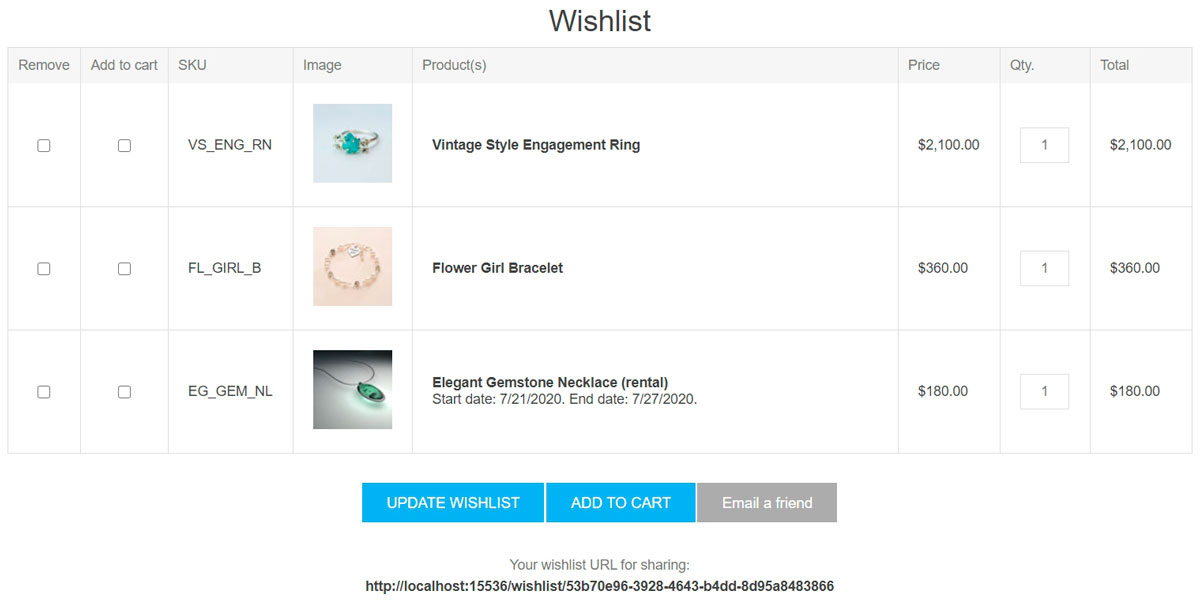
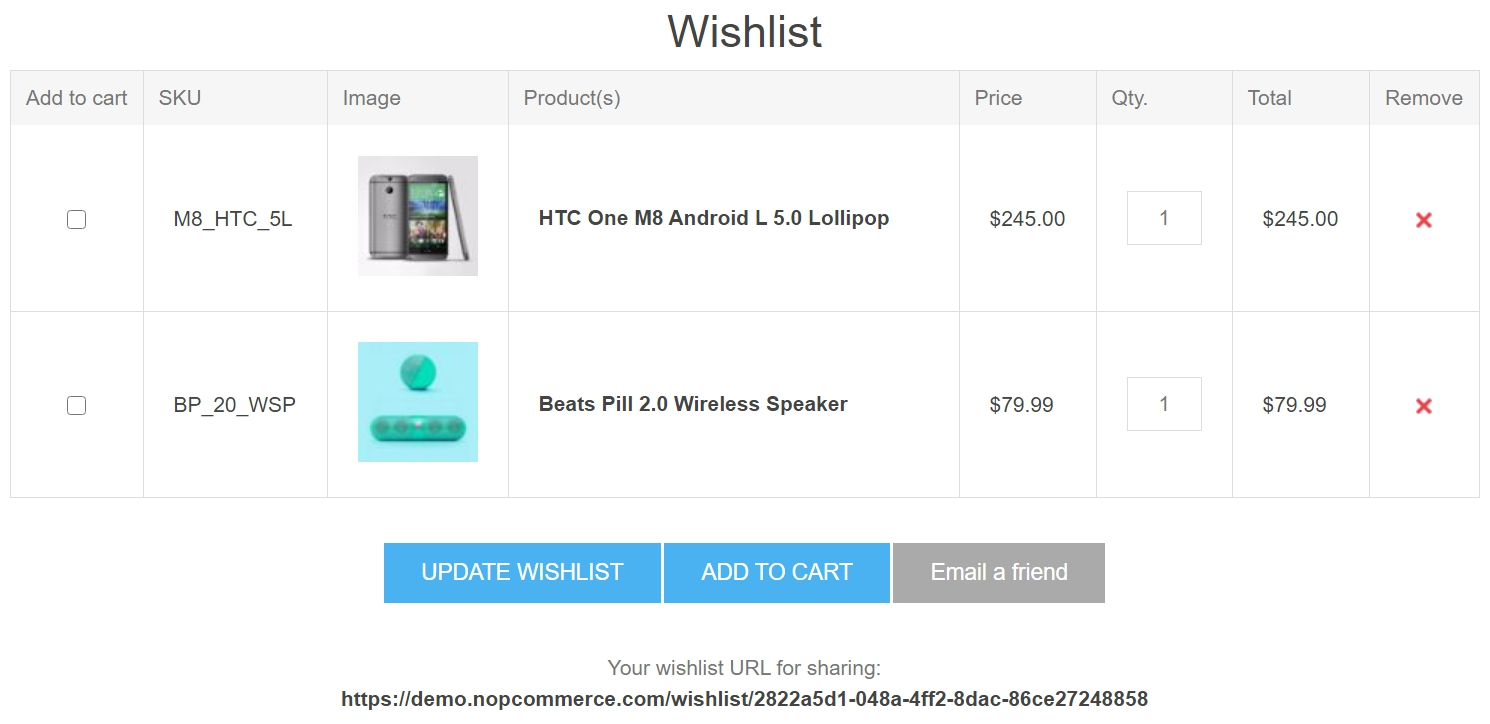
Updates in the user articles according to the 4.40 version

diff --git a/en/running-your-store/order-management/shopping-carts-and-wishlists.md b/en/running-your-store/order-management/shopping-carts-and-wishlists.md
@@ -25,7 +25,9 @@ The following screenshot shows how a customer sees a shopping cart page in the p
 ![Shopping carts public](_static/shopping-carts-and-wishlists/shopping-cart-public.jpg)
 
 There are a few elements on the shopping cart page. Some of them can be disabled if needed:
-1. The **Update shopping cart** button allows a customer to change a product's quantity by entering the appropriate number in the **Qty** field or remove a product by ticking the **Remove** checkbox.
+
+1. The button in the **Remove** column allows to remove an item from the shopping cart.
+1. The **Update shopping cart** button allows a customer to change a product's quantity by entering the appropriate number in the **Qty** field.
 1. The **Continue shopping** button allows a customer to proceed to the catalog.
 1. The **Estimate shipping** button allows a customer to estimate shipping. After clicking this button the following popup window will be displayed:
   ![Estimate shipping](_static/shopping-carts-and-wishlists/estimate-shipping.jpg)
@@ -34,17 +36,17 @@ There are a few elements on the shopping cart page. Some of them can be disabled
 1. You can see the **Gift wrapping** dropdown on the shopping cart screenshot provided above. This is a checkout attribute. Read more how to manage checkout attributes in the [Checkout attributes](xref:en/running-your-store/order-management/checkout-attributes) chapter.
 1. The **Discount code** section allows a customer to enter a discount code. You can disable this by unticking the **Show discount box** checkbox on the **Configuration → Settings → Shopping cart settings** page. Read more about discounts in the [Discounts](xref:en/running-your-store/promotional-tools/discounts) chapter.
 1. The **Gift cards** section allows a customer to use a gift card. You can disable this by unticking the **Show gift card box** checkbox on the **Configuration → Settings → Shopping cart settings** page. Read more about gift cards in the [Gift cards](xref:en/running-your-store/promotional-tools/gift-cards) chapter.
-1. In the shopping cart totals section a customer sees the shipping fee. Read how to set up shipping in the [Configure shipping](xref:en/getting-started/configure-shipping/index) section. 
-1. In the same section a customer sees the tax info. Read how to set up tax in the [Configure taxes](xref:en/getting-started/configure-taxes/index) section. 
+1. In the shopping cart totals section a customer sees the shipping fee. Read how to set up shipping in the [Configure shipping](xref:en/getting-started/configure-shipping/index) section.
+1. In the same section a customer sees the tax info. Read how to set up tax in the [Configure taxes](xref:en/getting-started/configure-taxes/index) section.
 1. In the same section a customer sees how many reward points will be earned. Read how to set up reward points in the [Reward points](xref:en/running-your-store/promotional-tools/reward-points) section.
-1. In the same section a customer sees terms of service. You can disable this by unticking the **Terms of service (shopping cart page)** checkbox on the **Configuration → Settings → Order settings** page. 
+1. In the same section a customer sees terms of service. You can disable this by unticking the **Terms of service (shopping cart page)** checkbox on the **Configuration → Settings → Order settings** page.
 
 > [!NOTE]
 >
 > In case you don't want allow a customer to add a certain product to a shopping cart tick the **Disable buy button** checkbox in the *Prices* panel of the product edit page. Read more about adding a product in the [Add products](xref:en/running-your-store/catalog/products/add-products) chapter.
 
 > [!NOTE]
-> 
+>
 > Check out our [marketplace](http://www.nopcommerce.com/marketplace) for plugins that help you manage abandoned carts and recover lost sales.
 
 ## Wishlist
@@ -54,14 +56,16 @@ Select the *Wishlist* option from the **Shopping cart type** dropdown list on th
 A wishlist is a list of products that a customer can share with friends, or save to transfer to the cart later. If a wishlist adding is enabled for a product, the **Add to wishlist** button appears on the product details page in the public store. When a product of different variants is added to a wish list, all of the variants chosen by a customer are included in the wishlist.
 
 > [!TIP]
-> 
+>
 > For example, if a customer adds the same shirt, but in 2 different colors, each shirt appears as a separate item in the wish list. In case the customer adds the same product to the wishlist multiple times, the product appears only once, but with an updated quantity that reflects the number of times the product was added.
 
 The following screenshot illustrates how a customer sees a wishlist page in the public store:
 ![Wishlist public](_static/shopping-carts-and-wishlists/wishlist-public.jpg)
 
 There are a few elements on the wishlist page:
-1. The **Update wishlist** button allows a customer to change a product's quantity by entering the appropriate number in the **Qty** field or remove a product by ticking the **Remove** checkbox.
+
+1. The button in the **Remove** column allows to remove an item from the wishlist.
+1. The **Update wishlist** button allows a customer to change a product's quantity by entering the appropriate number in the **Qty** field.
 1. The **Add to cart** button allows a customer to add the selected products to cart.
 1. The **Email a friend** button allows a customer to send the wishlist to a friend by email. You can disable this by unticking the **Allow customers to email their wishlists** checkbox on the **Configuration → Settings → Shopping cart settings** page.
 1. The **Your wishlist URL for sharing** allows a customer to share the wishlist.
@@ -76,7 +80,8 @@ To change the shopping cart and wishlist settings go to the **Configuration → 
 
 This page enables multi-store configuration, it means that the same settings can be defined for all stores, or differ from store to store. If you want to manage settings for a certain store, choose its name from multi-store configuration drop-down list and tick all needed checkboxes at the left side to set custom value for them. For further details refer to [Multi-store](xref:en/getting-started/advanced-configuration/multi-store).
 
-### Common 
+### Common settings
+
 In the *Common* panel you can define:
 ![Common](_static/shopping-carts-and-wishlists/common.png)
 
@@ -89,17 +94,19 @@ In the *Common* panel you can define:
 * To **Display cart after adding a product**, to the display the shopping cart page immediately after a product is added to the cart. When this checkbox is unticked, the customer will remain on the page where the product was added to the cart.
 * **Number of cross-sells** that you want to display on the checkout page of the shopping cart in the public store. Enter 0, if you do not want to display cross-sells.
 
-### Mini shopping cart
+### Mini shopping cart settings
+
 In the *Mini shopping cart* panel you can define:
 ![mini-shopping-cart](_static/shopping-carts-and-wishlists/mini-shopping-cart.png)
 
-* To **Show mini-shopping cart** - a drop down menu, that appears at the top right-hand corner of the main window, when hovering over the "Shopping cart" link, as shown below: 
+* To **Show mini-shopping cart** - a drop down menu, that appears at the top right-hand corner of the main window, when hovering over the "Shopping cart" link, as shown below:
   ![Cart](_static/shopping-carts-and-wishlists/cart.png)
   When this field is ticked the following fields are displayed:
   * **Number of products in mini-shopping cart** - the maximum number of products displayed in the mini shopping cart dropdown menu, in the public store.
   * **Show product images in mini shopping cart** to determine whether images are displayed in the mini shopping cart dropdown menu.
 
-### Wishlist
+### Wishlist settings
+
 In the *Wishlist* panel you can define:
 ![Wishlist](_static/shopping-carts-and-wishlists/wishlist.png)
 

diff --git a/en/running-your-store/catalog/products/add-products.md b/en/running-your-store/catalog/products/add-products.md
@@ -14,7 +14,7 @@ To add a new product, go to **Catalog → Products**. Click **Add new** button i
 ![Products](_static/add-product-for-beginners/products.jpg)
 
 > [!NOTE]
-> 
+>
 > You can import products from an external file by clicking the **Import** button. Once you have a list of products, you can export it to an external file for backup purposes, by clicking the **Export** button. After clicking the **Export** button you will see the dropdown menu enabling you to **Export to XML (all found)** or **Export to XML (selected)** and **Export to Excel (all found)** or **Export to Excel (selected)**. Additionally, it is possible to **Download catalog as PDF** to print the selected products to a PDF file. To remove products from the list, select the items to be deleted and click the **Delete (selected)** button.
 
 *Add a new product* page is available in two modes: **advanced** and **basic** (in advanced mode by default). You can switch to the basic mode which displays the only required fields.
@@ -50,14 +50,14 @@ Start by filling up general information in the *Product info* panel:
 - Set up the **Product type** as *Simple* or *Grouped*. Read more about product types in the [Grouped products (variants)](xref:en/running-your-store/catalog/products/grouped-products-variants) chapter.
 - The **Product template** field is visible if you have any custom product templates installed on the **Sysytem → Templates** page.
 - Tick **Visible individually** if you want the product to be in catalog or search results, otherwise the product will be hidden in the catalog and accessible only from a grouped product details page.
-- Choose **Customer roles** which will be able to see the product in the catalog. Leave this field empty if this option is not required and the product can be seen by everyone. 
+- Choose **Customer roles** which will be able to see the product in the catalog. Leave this field empty if this option is not required and the product can be seen by everyone.
     > [!NOTE]
     >
     > In order to use this functionality you have to disable the following setting: **Configuration → Catalog settings → Ignore ACL rules (sitewide)**. Read more about access control list [here](xref:en/running-your-store/customer-management/access-control-list).
 - Choose the stores in the **Limited to stores** field if the product is sold in specific stores. Leave the field empty in case this functionality is not required.
   > [!NOTE]
   >
-	> In order to use this functionality, you have to disable the following setting: **Catalog settings → Ignore "limit per store" rules (sitewide)**. Read more about multi-store functionality [here](xref:en/getting-started/advanced-configuration/multi-store).
+  > In order to use this functionality, you have to disable the following setting: **Catalog settings → Ignore "limit per store" rules (sitewide)**. Read more about multi-store functionality [here](xref:en/getting-started/advanced-configuration/multi-store).
 
 - **Vendor**. You can manage [vendors](xref:en/running-your-store/vendor-management) in **Customers → Vendors**.
 - Define whether the product **Require other products**. In this case select the **Required product IDs** entering them separated by comma, ensure that there are no circular references, e.g. A requires B, B requires A. Chose to **Automatically add these products to the cart** if required.
@@ -103,7 +103,7 @@ In the *Price* panel define:
 Define product-specific shipping details in the *Shipping* panel:
 
 - Tick **Shipping enabled** if the product can be shipped. The section then expands for more details.
-- Set the product parameters which will be used for the shipping calculation: **Weight, Length, Width, Height**. 
+- Set the product parameters which will be used for the shipping calculation: **Weight, Length, Width, Height**.
     > [!NOTE]
     >
     > You can change predefined measures in **Configuration → Shipping → Measures**.
@@ -117,8 +117,8 @@ Define product-specific shipping details in the *Shipping* panel:
     > You can manage delivery date options in **Configuration → Shipping → Delivery dates**.
 
 > [!NOTE]
-> 
-> There is **Estimate shipping enabled (product page)** setting which can be enabled on **Configuration → Settings → Shipping settings**. 
+>
+> There is **Estimate shipping enabled (product page)** setting which can be enabled on **Configuration → Settings → Shipping settings**.
 > This setting allows to display estimate shipping information based on customer's shipping address in pop-up window on the product details page.
 
 ## Inventory
@@ -137,12 +137,12 @@ In the *Pictures* panel you can add the product pictures.
 Click **Add product picture** to save the picture.
 
 > [!TIP]
-> 
+>
 > [YouTube tutorial: Importing mass product images](https://www.youtube.com/watch?v=9BUqR_OGiq4)
 
-## Product attributes 
+## Product attributes
 
-In the *Product attributes* panel you can add product attributes. Learn more about product attributes and how to create them [here](xref:en/running-your-store/catalog/products/product-attributes). 
+In the *Product attributes* panel you can add product attributes. Learn more about product attributes and how to create them [here](xref:en/running-your-store/catalog/products/product-attributes).
 
 ![Product attributes](_static/add-product-for-beginners/product_attributes2.png)
 
@@ -159,8 +159,8 @@ Set up a new attribute:
 - Tick **Is required** to set this attribute as required for customers.
 - Define the **Control type** for this attribute (e.g. dropdown list, radio button list, etc.).
     > [!NOTE]
-    > 
-    > For the "Date picker" control type, it is possible to set a number of years to be displayed by using **catalogsettings.countdisplayedyearsdatepicker** parameter on the *All settings (advanced)* page. For example, if you set zero then only current year will be displayed. If you set 5 then current year and the next 5 years will be displayed. Read how to set this up on the [All settings](xref:en/getting-started/advanced-configuration/all-settings) page. 
+    >
+    > For the "Date picker" control type, it is possible to set a number of years to be displayed by using **catalogsettings.countdisplayedyearsdatepicker** parameter on the *All settings (advanced)* page. For example, if you set zero then only current year will be displayed. If you set 5 then current year and the next 5 years will be displayed. Read how to set this up on the [All settings](xref:en/getting-started/advanced-configuration/all-settings) page.
 
 - Define the **Display order** of the attribute on a product page. 1 represents the top of the list.
 
@@ -176,6 +176,7 @@ Edit the attribute value details, as follows:
 - Select the **Attribute value type**. There are two attribute value types, *Simple* and *Associated to product*. Choose the *associated to product* type if you want this attribute value to be another product from your catalog and track its stock as well. Here you can use *bundled products functionality* allowing customers to buy different combinations or sets of products as a single product and shoppers have an opportunity to set the required quantity of the attributes using the **Customer enters quantity** field described below.
 
 If the previous setting set to *Associated to product* the following fields will be displayed:
+
 - **Associated product** allows you to choose the product which will be assotiated to this attribute. Use the **Associate a product** button to choose a product.
 
 > [!NOTE]

diff --git a/en/running-your-store/catalog/products/specification-attributes.md b/en/running-your-store/catalog/products/specification-attributes.md
@@ -10,29 +10,54 @@ contributors: git.DmitriyKulagin, git.exileDev, git.dunaenko, git.mariannk
 Specification attributes are similar to [product attributes](xref:en/running-your-store/catalog/products/product-attributes), however, they are only used for information purposes (visible on the product details page) and for filtering products on the category details page. They don't define a product price as well as can't be used for the inventory tracking.
 
 ## Example
-Let's say you are running an online computer store. What helps a customer to make a decision? 
 
-- Provide a customer full and descriptive information about your products. Despite you fill the short and full description of the certain computer, allow the customer to see the product's characteristic where reflected it's most important details: 
-	![Specification attributes](_static/specification-attributes/specs.jpg)
+Let's say you are running an online computer store. What helps a customer to make a decision?
 
-	This table can be displayed on the product details page if you select the **Show on product page** field when [adding a specification attribute to a product](xref:en/running-your-store/catalog/products/add-products#specification-attributes).
+- Provide a customer full and descriptive information about your products. Despite you fill the short and full description of the certain computer, allow the customer to see the product's characteristic where reflected it's most important details:
+
+  ![Specification attributes](_static/specification-attributes/specs.jpg)
+
+  This table can be displayed on the product details page if you select the **Show on product page** field when [adding a specification attribute to a product](xref:en/running-your-store/catalog/products/add-products#specification-attributes).
 
 - Allow your customers to search computers using the filter functionality. Let's say we can search in your store by color, screensize, CPU type and memory. Then the category page will look the following way:
-	![Filtering](_static/specification-attributes/filter.jpg)
 
-	Select the **Allow filtering** field when [adding a specification attribute to a product](xref:en/running-your-store/catalog/products/add-products#specification-attributes) to allow filtering by this attribute for the certain product.
+  ![Filtering](_static/specification-attributes/filter.jpg)
+
+  Select the **Allow filtering** field when [adding a specification attribute to a product](xref:en/running-your-store/catalog/products/add-products#specification-attributes) to allow filtering by this attribute for the certain product.
 
 - Include the "Compare products" functionality in your store. This feature is also uses specification attributes. For your computer store the "Compare products" page will look the following way:
-	![Compare products](_static/specification-attributes/compare.jpg)
+  
+  ![Compare products](_static/specification-attributes/compare.jpg)
 
-	To enable the "Compare products" functionality go to **Configuration → Settings → Catalog settings**. In the *Compare products* panel tick the **'Compare products' enabled** checkbox.
+  To enable the "Compare products" functionality go to **Configuration → Settings → Catalog settings**. In the *Compare products* panel tick the **'Compare products' enabled** checkbox.
 
 The next section describes how to create specification attributes. Note that after creating a list of specification attributes you will need to add the specification attributes to the products one by one. Learn how add specification attributes to products in the [Add products - Specification attributes](xref:en/running-your-store/catalog/products/add-products#specification-attributes) section.
+
+## Create a specification attribute group
+
+> [!NOTE]
+>
+> By default, there is the only one specification group created. It is *Default group (non-grouped specification attributes)* which includes all non-grouped specification attributes.
+
+To see and edit a list of specification attributes and their groups, go to **Catalog → Attributes → Specification attributes**.
+
+![Specification attributes](_static/specification-attributes/specification_attributes.jpg)
+
+Click **Add group** to add a new group. The *Add a new specification attribute group* window is displayed, as follows:
+
+![Add group](_static/specification-attributes/specification_group.jpg)
+
+In the *Attribute group info* panel, enter:
+
+- The **Name** of the specification attribute group.
+- The **Display order** number.
+
+Then save the changes.
 
 ## Create a specification attribute
 
 > [!NOTE]
-> 
+>
 > By default, there are no specification attributes pre-created in nopCommerce.
 
 To see and edit a list of specification attributes, go to **Catalog → Attributes → Specification attributes**.
@@ -41,15 +66,16 @@ To see and edit a list of specification attributes, go to **Catalog → Attribut
 
 On this page you can delete specification attributes by selecting them and then clicking the **Delete(selected)** button.
 
-Click **Add new** to add a new attribute. The *Add a new specification attribute* window is displayed, as follows:
+Click **Add attribute** to add a new attribute. The *Add a new specification attribute* window is displayed, as follows:
 
 ![Add new](_static/specification-attributes/new-attribute.jpg)
 
 In the *Attribute info* panel, enter:
+
 - The **Name** of the specification attribute.
 - The **Display order** number.
 
-Click **Save and continue edit** to proceed to the *Options* editing panel. 
+Click **Save and continue edit** to proceed to the *Options* editing panel.
 
 ### Add a new option
 
@@ -58,9 +84,10 @@ Click the **Add a new option** button in the *Options* panel to create a new spe
 ![Add a new option](_static/specification-attributes/add_a_new_option.jpg)
 
 Define the following option settings:
+
 - The **Name** of the specification attribute option.
 - Tick the **Specify color** checkbox to choose color to be used instead of an option text name (it'll be displayed as a "color square").
-	- Choose the **RGB color** which will be displayed to customers.
+  - Choose the **RGB color** which will be displayed to customers.
 - The **Display order** number.
 
 Click **Save** to save the option details.

diff --git a/en/developer/design/customizing-theme.md b/en/developer/design/customizing-theme.md
@@ -13,31 +13,13 @@ In order to upload your store logo in a nopCommerce website, there are basically
 
 ### First Method
 
+Upload your logo through the admin area. See how to do this in the [Uploading your logo](xref:en/getting-started/design-your-store/uploading-your-logo) article.
+
+### Second method
+
 1. Go to nopCommerce root folder `/Themes/YOUR THEME/Content/images/`
-1. Look for logo.gif image file
-1. Replace the `logo.gif` with your store logo and name it as `logo.gif` (with same width:310px and height:60px)
-
-### Second Method
-
-1. Save your store logo in this location : nopCommerce root folder `/Themes/YOUR THEME/Content/images/`
-1. Go to nopCommerce root folder `/Views/Shared/Header.cshtml`
-1. Open `Header.cshtml` file
-1. Look for this code at the top:
-
-    ```csharp
-    var logoPath = "~/Themes/" + currentThemeName + "/Content/images/logo.gif";
-    ```
-
-    You can mention the path of your custom logo here.
-
-    > [!NOTE]
-    > In the above mentioned css code: logo.gif is the name of the store logo image file
-
-1. Change logo.gif with `YourLogo.gif/jpg/png`
-1. Save changes to the `Header.cshtml` file
-
-> [!IMPORTANT]
-> You might have to refresh the browser or delete history or cookies of your browser in order to see the changes (new store logo).
+1. Look for logo.png image file
+1. Replace the `logo.png` with your store logo and name it as `logo.png` (with same width:250px and height:50px)
 
 If you wish to make changes in stylesheet in regard to the logo, look for the following code in your `styles.css`:
 
@@ -57,9 +39,12 @@ If you wish to make changes in stylesheet in regard to the logo, look for the fo
 }
 ```
 
+> [!IMPORTANT]
+> You might have to clear the browser cache (or refresh the page using Ctrl+F5 keys) in order to see the changes (new store logo).
+
 ## How to change a layout
 
-1. If you would like to customize / make changes in the base layout (i.e. `_Root.cshtml`) of your nopCommerce website. Please look for this css code in your `style.css`
+1. If you would like to customize / make changes in the base layout (i.e. `_Root.cshtml`) of your nopCommerce website look for this css code in your `styles.css` file
 
     ```css
     .master-wrapper-content {
@@ -90,7 +75,7 @@ If you wish to make changes in stylesheet in regard to the logo, look for the fo
 1. If you would like to customize / make changes in the layout of `_ColumnTwo.cshtml`. Please look for this css code in your `style.css`
 
     ```css
-        .center-2, .side-2 {
+    .center-2, .side-2 {
         margin: 0 0 50px;
     }
     .side-2:after {

diff --git a/en/installation-and-upgrading/installing-nopcommerce/web-farms.md b/en/installation-and-upgrading/installing-nopcommerce/web-farms.md
@@ -27,8 +27,10 @@ First of all, you have to configure the initial settings of your web farm in IIS
 
 1. Go to **Configuration → Settings → All settings (advanced)**. Find the **mediasettings.useabsoluteimagepath** setting and change its value to *false*
 1. Go to **Configuration → Settings → App settings** and find the *Distributed cache configuration* tab. Tick the **Use distributed cache** checkbox and choose the option you prefer:
-	- *Redis*. In this case, you just need to enter the **Connection string** to your Redis server below
-	- *SQL Server*. In this case, you need to prepare a new table in your database using the "sql-cache create" command first. Read more about it in Microsoft docs [here](https://docs.microsoft.com/en-us/aspnet/core/performance/caching/distributed?view=aspnetcore-5.0#distributed-sql-server-cache). Then fill in the **Connection string**, **Schema name**, and **Table name** fields
+
+   - *Redis*. In this case, you just need to enter the **Connection string** to your Redis server below
+   - *SQL Server*. In this case, you need to prepare a new table in your database using the "sql-cache create" command first. Read more about it in Microsoft docs [here](https://docs.microsoft.com/en-us/aspnet/core/performance/caching/distributed?view=aspnetcore-5.0#distributed-sql-server-cache). Then fill in the **Connection string**, **Schema name**, and **Table name** fields
+
 1. Since our web farm utilizes Application Request Routing (ARR) to control traffic using a proxy server, tick the **Use HTTP_X_FORWARDED_PROTO** checkbox
 1. Click the **Save** button. The nopCommerce application will be restarted
 
